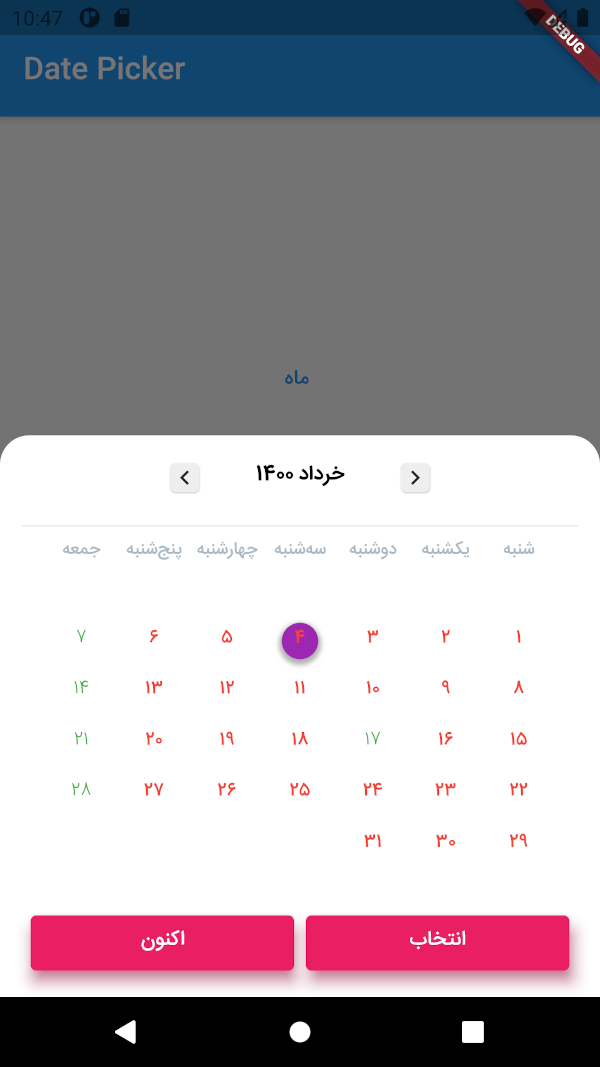
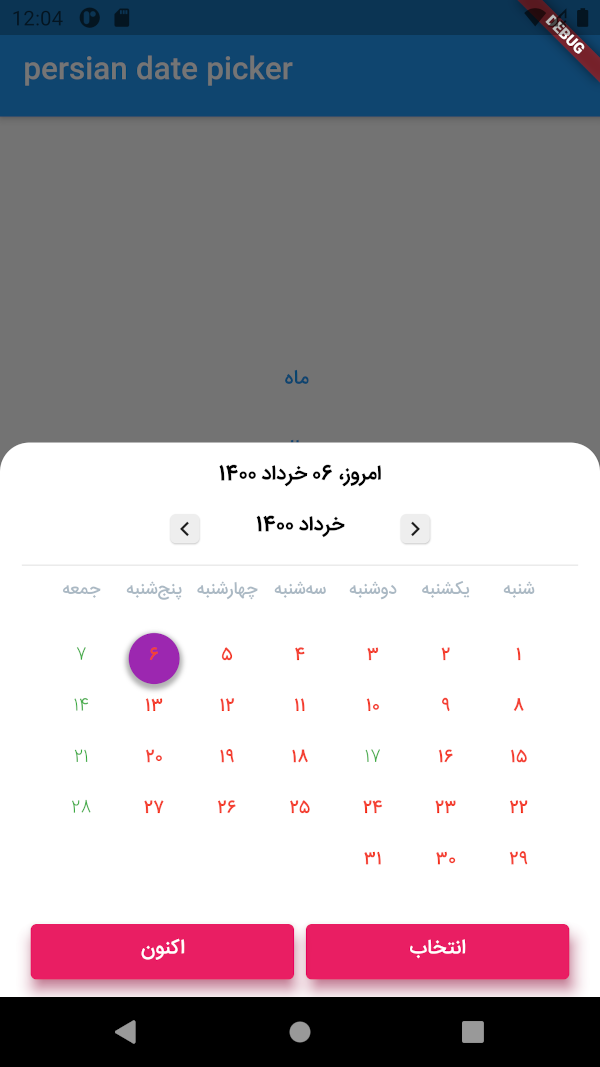
Add today date in header

diff --git a/lib/widget/today_header_widget.dart b/lib/widget/today_header_widget.dart
@@ -1,0 +1,105 @@
+import 'package:alt_persian_date_picker/src/datetime_picker_theme.dart';
+import 'package:flutter/material.dart';
+
+import '../src/date_model.dart';
+
+// ignore: must_be_immutable
+class TodayHeaderWidget extends AnimatedWidget {
+  final AnimationController controller;
+  final DatePickerModel pickerModel;
+  final DatePickerTheme theme;
+  final VoidCallback changeMonthPrev;
+  final VoidCallback changeMonthNext;
+  bool isSlideForward = false;
+
+  TodayHeaderWidget({
+    Key key,
+    @required this.pickerModel,
+    @required this.theme,
+    @required this.controller,
+    @required this.changeMonthPrev,
+    @required this.changeMonthNext,
+    this.isSlideForward,
+  }) : super(key: key, listenable: controller);
+
+  @override
+  Widget build(BuildContext context) {
+    controller.addStatusListener((status) {
+      if (status == AnimationStatus.completed) {
+        controller.reverse();
+        if (pickerModel.arrowType == "next")
+          isSlideForward = true;
+        else
+          isSlideForward = false;
+      }
+    });
+    return Column(
+      children: [
+        Padding(
+          padding: const EdgeInsets.only(top: 8.0),
+          child: Row(
+            mainAxisAlignment: MainAxisAlignment.center,
+            children: [
+              Text(
+                "امروز، ",
+                style: theme.headerStyle,
+              ),
+              Text(
+                "${pickerModel.getTodayate()}",
+                style: theme.headerStyle,
+              ),
+            ],
+          ),
+        ),
+        Row(
+          mainAxisAlignment: MainAxisAlignment.center,
+          children: [
+            IconButton(
+              onPressed: changeMonthPrev,
+              icon: Card(
+                color: Colors.grey[200],
+                child: Icon(
+                  Icons.chevron_left,
+                  size: 20,
+                ),
+              ),
+            ),
+            Padding(
+                padding: const EdgeInsets.symmetric(horizontal: 10),
+                child: SizedBox(
+                  width: 90,
+                  child: AnimatedBuilder(
+                    animation: controller,
+                    builder: (context, child) => Transform(
+                      transform: Matrix4.translationValues(
+                          controller.value * (isSlideForward ? 100 : -100),
+                          0,
+                          0),
+                      child: Opacity(
+                        opacity: 1 - controller.value,
+                        child: Center(
+                          child: Text(
+                            "${pickerModel.getMonthName()} ${pickerModel.getYear()}",
+                            style: theme.headerStyle,
+                          ),
+                        ),
+                      ),
+                    ),
+                  ),
+                )),
+            IconButton(
+              onPressed: changeMonthNext,
+              icon: Card(
+                color: Colors.grey[200],
+                child: Icon(
+                  Icons.chevron_right,
+                  size: 20,
+                ),
+              ),
+            ),
+          ],
+        ),
+      ],
+    );
+  }
+}

diff --git a/lib/pages/alt_date_picker.dart b/lib/pages/alt_date_picker.dart
@@ -7,6 +7,7 @@ import 'package:alt_persian_date_picker/widget/main_button_widget.dart';
 import 'package:alt_persian_date_picker/widget/mixed_header_widget.dart';
 import 'package:alt_persian_date_picker/widget/separate_header_widget.dart';
 import 'package:alt_persian_date_picker/widget/swap_page_builder.dart';
+import 'package:alt_persian_date_picker/widget/today_header_widget.dart';
 import 'package:flutter/material.dart';
 
 class AltDatePicker extends StatefulWidget {
@@ -137,7 +138,8 @@ class _AltDatePickerState extends State<AltDatePicker>
           crossAxisAlignment: CrossAxisAlignment.center,
           children: [
             if (widget.pickerModel.headerType == HeaderType.mix)
-              MixedHeaderWidget(
+              TodayHeaderWidget(
+                //MixedHeaderWidget
                 controller: controller,
                 theme: widget.theme,
                 pickerModel: widget.pickerModel,
@@ -170,9 +172,7 @@ class _AltDatePickerState extends State<AltDatePicker>
                 onSubmitted: other,
                 isSlideForward: isSlideAnimated,
               ),
-            SizedBox(
-              height: 8,
-            ),
+
             Divider(
               height: 2,
               thickness: 1,
@@ -186,7 +186,7 @@ class _AltDatePickerState extends State<AltDatePicker>
             dayOfWeekNameContainer(),
             daysTable(),
             Padding(
-              padding: const EdgeInsets.symmetric(vertical: 8, horizontal: 16),
+              padding: const EdgeInsets.symmetric(vertical: 2, horizontal: 16),
               child: MainButtonWidget(
                 theme: widget.theme,
                 onConfirm: () {
@@ -238,15 +238,18 @@ class _AltDatePickerState extends State<AltDatePicker>
 // شنبه ، یکشنه ، دوشنبه
   Widget dayOfWeekNameContainer() {
     return Container(
+      height: 20,
       child: Row(
         mainAxisAlignment: MainAxisAlignment.center,
         children: widget.pickerModel.weekDaysName
             .map((day) => Container(
                   width: cellWidth,
                   height: cellHeight,
-                  child: Text(day,
-                      textAlign: TextAlign.center,
-                      style: widget.theme.daysNameTextStyle),
+                  child: Center(
+                    child: Text(day,
+                        textAlign: TextAlign.center,
+                        style: widget.theme.daysNameTextStyle),
+                  ),
                 ))
             .toList(),
       ),
@@ -322,14 +325,10 @@ class _DaysTableState extends State<DaysTable> {
     List chunkAllDays = partition(allDaysWidget, 7).toList();
 
     chunkWeeksWidget = chunkAllDays.map((week) {
-      return Container(
-        height: cellHeight,
-        padding: EdgeInsets.symmetric(vertical: 5),
-        child: Row(
-          mainAxisAlignment: MainAxisAlignment.center,
-          mainAxisSize: MainAxisSize.min,
-          children: week,
-        ),
+      return Row(
+        mainAxisAlignment: MainAxisAlignment.center,
+        mainAxisSize: MainAxisSize.min,
+        children: week,
       );
     }).toList();
   }

diff --git a/lib/src/date_model.dart b/lib/src/date_model.dart
@@ -279,6 +279,15 @@ class DatePickerModel extends BasePickerModel {
     return jDate.formatter.yyyy;
   }
 
+  String getTodayate() {
+    Date now = Jalali.now();
+    String day = now.formatter.dd;
+    String month = now.formatter.mN;
+    String year = now.formatter.yyyy;
+    String todayDate = "$day $month $year";
+    return todayDate;
+  }
+
   void makeDays() {
     _allDaysOfTable.clear();
     int monthLenght = jDate.monthLength;

diff --git a/CHANGELOG.md b/CHANGELOG.md
@@ -1,1 +1,2 @@
 ## [0.1.2+9] - Start Project
+## [0.1.3] - Add today date in header
